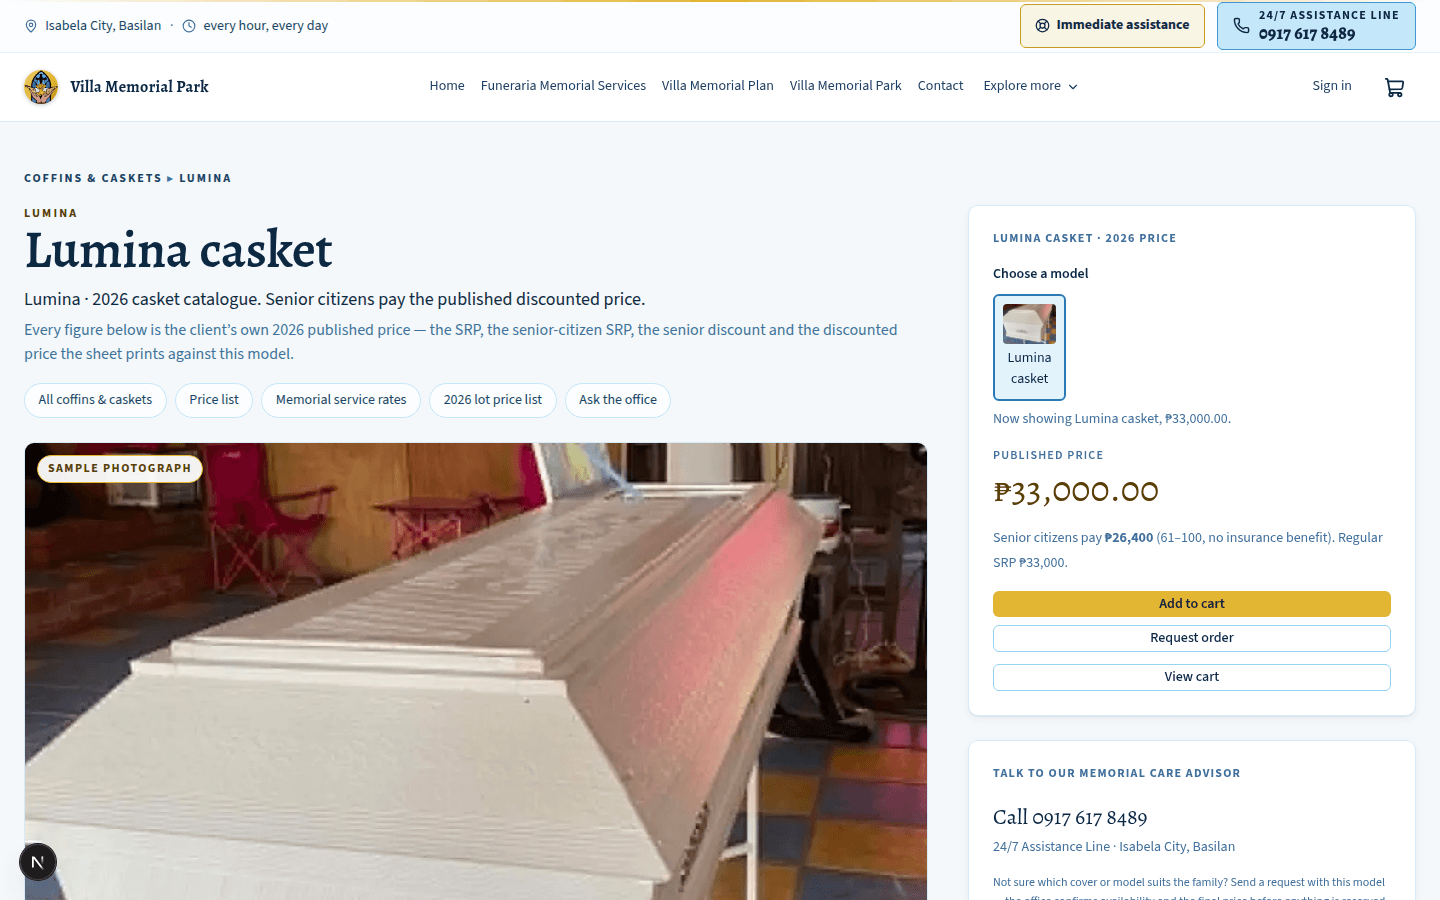
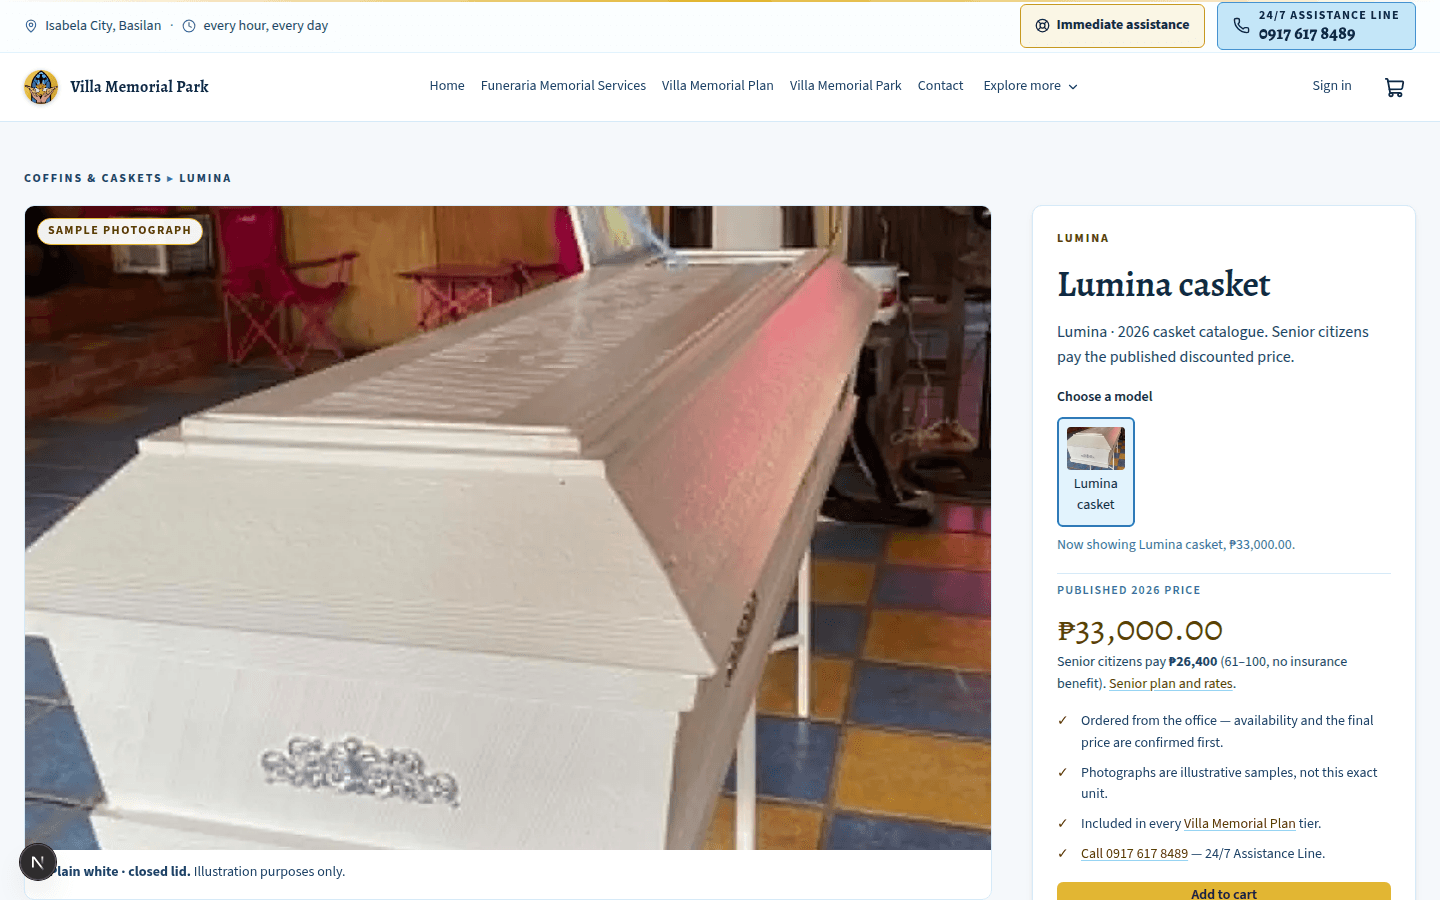
Re-capture the PDP evidence on the rebased tree

diff --git a/docs/08-delivery/inter-type-consistency-design/README.md b/docs/08-delivery/inter-type-consistency-design/README.md
@@ -66,6 +66,8 @@ every heading to 600 and beat base's ladder) was removed — one owner.
 | `/products` (1440) | `h1.page-hero__title` | 36 px |
 | `/staff/pricing` (1440) | `.page-header h1` | 36 px |
 | `/staff/pricing` (1440) | `.table thead th` | 12 px |
+| `/products/CSK-LUMINA` (1440) | `h1.pdp-buy__title` | 36 px |
+| `/products/CSK-LUMINA` (1440) | `.pdp-section__title` | 28 px |
 | any (1440) | `body` | 16 px `rgb(0,0,0)` |
 | any (390) | `--text-page-title` / `--text-section-title` | 1.75 rem (28) / 1.375 rem (22) |
 
@@ -91,7 +93,12 @@ Contrast (AA, ≥ 4.5:1): #000000, #333333 and #595959 all pass on both
 
 `shots/{before,after}/` — 1440×900 and 390×844 for the public home, product PDP,
 plans, an admin screen, an admin table, the family portal and checkout (14 pairs).
-The admin table is the "a table" ink evidence; the home is the page.
+The admin table is the "a table" ink evidence; the home is the page. The PDP
+shots are captured against the rebased tree (the P3 Amazon PDP rebuild landed
+between this branch's base and its merge), and every other surface is unchanged
+by that rebuild. The PDP rebuild also introduced three headings
+(`.pdp-buy__title` 36, `.pdp-section__title` 28, `.pdp-feature-group__title` 18)
+that this branch routes through the same role aliases.
 
 ## Tests
 
